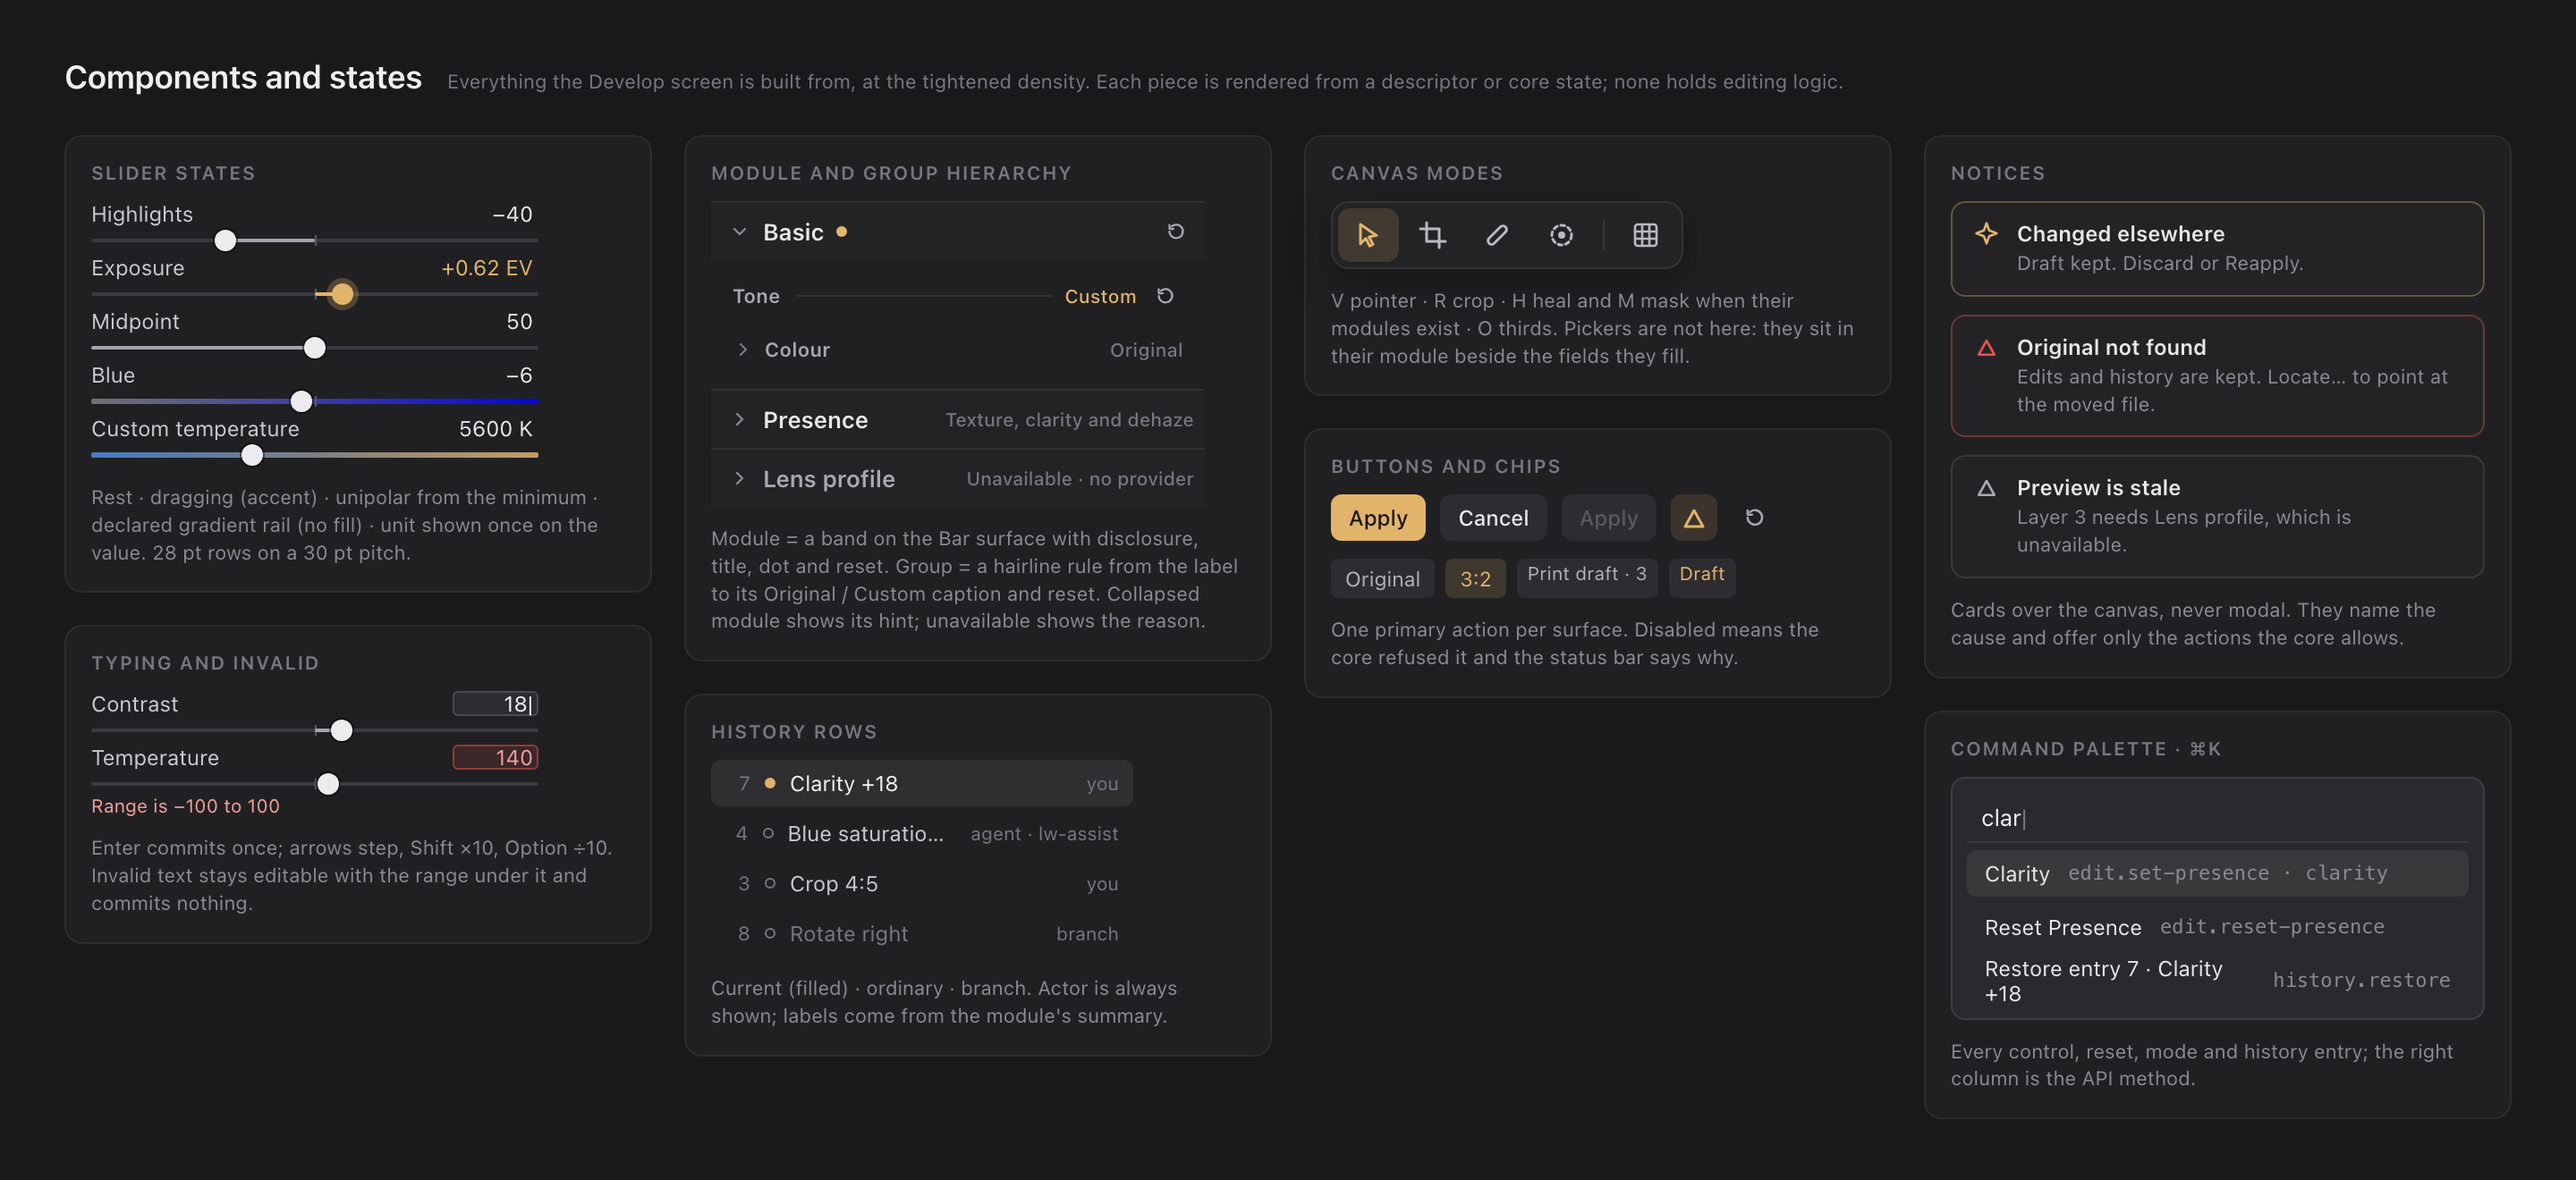
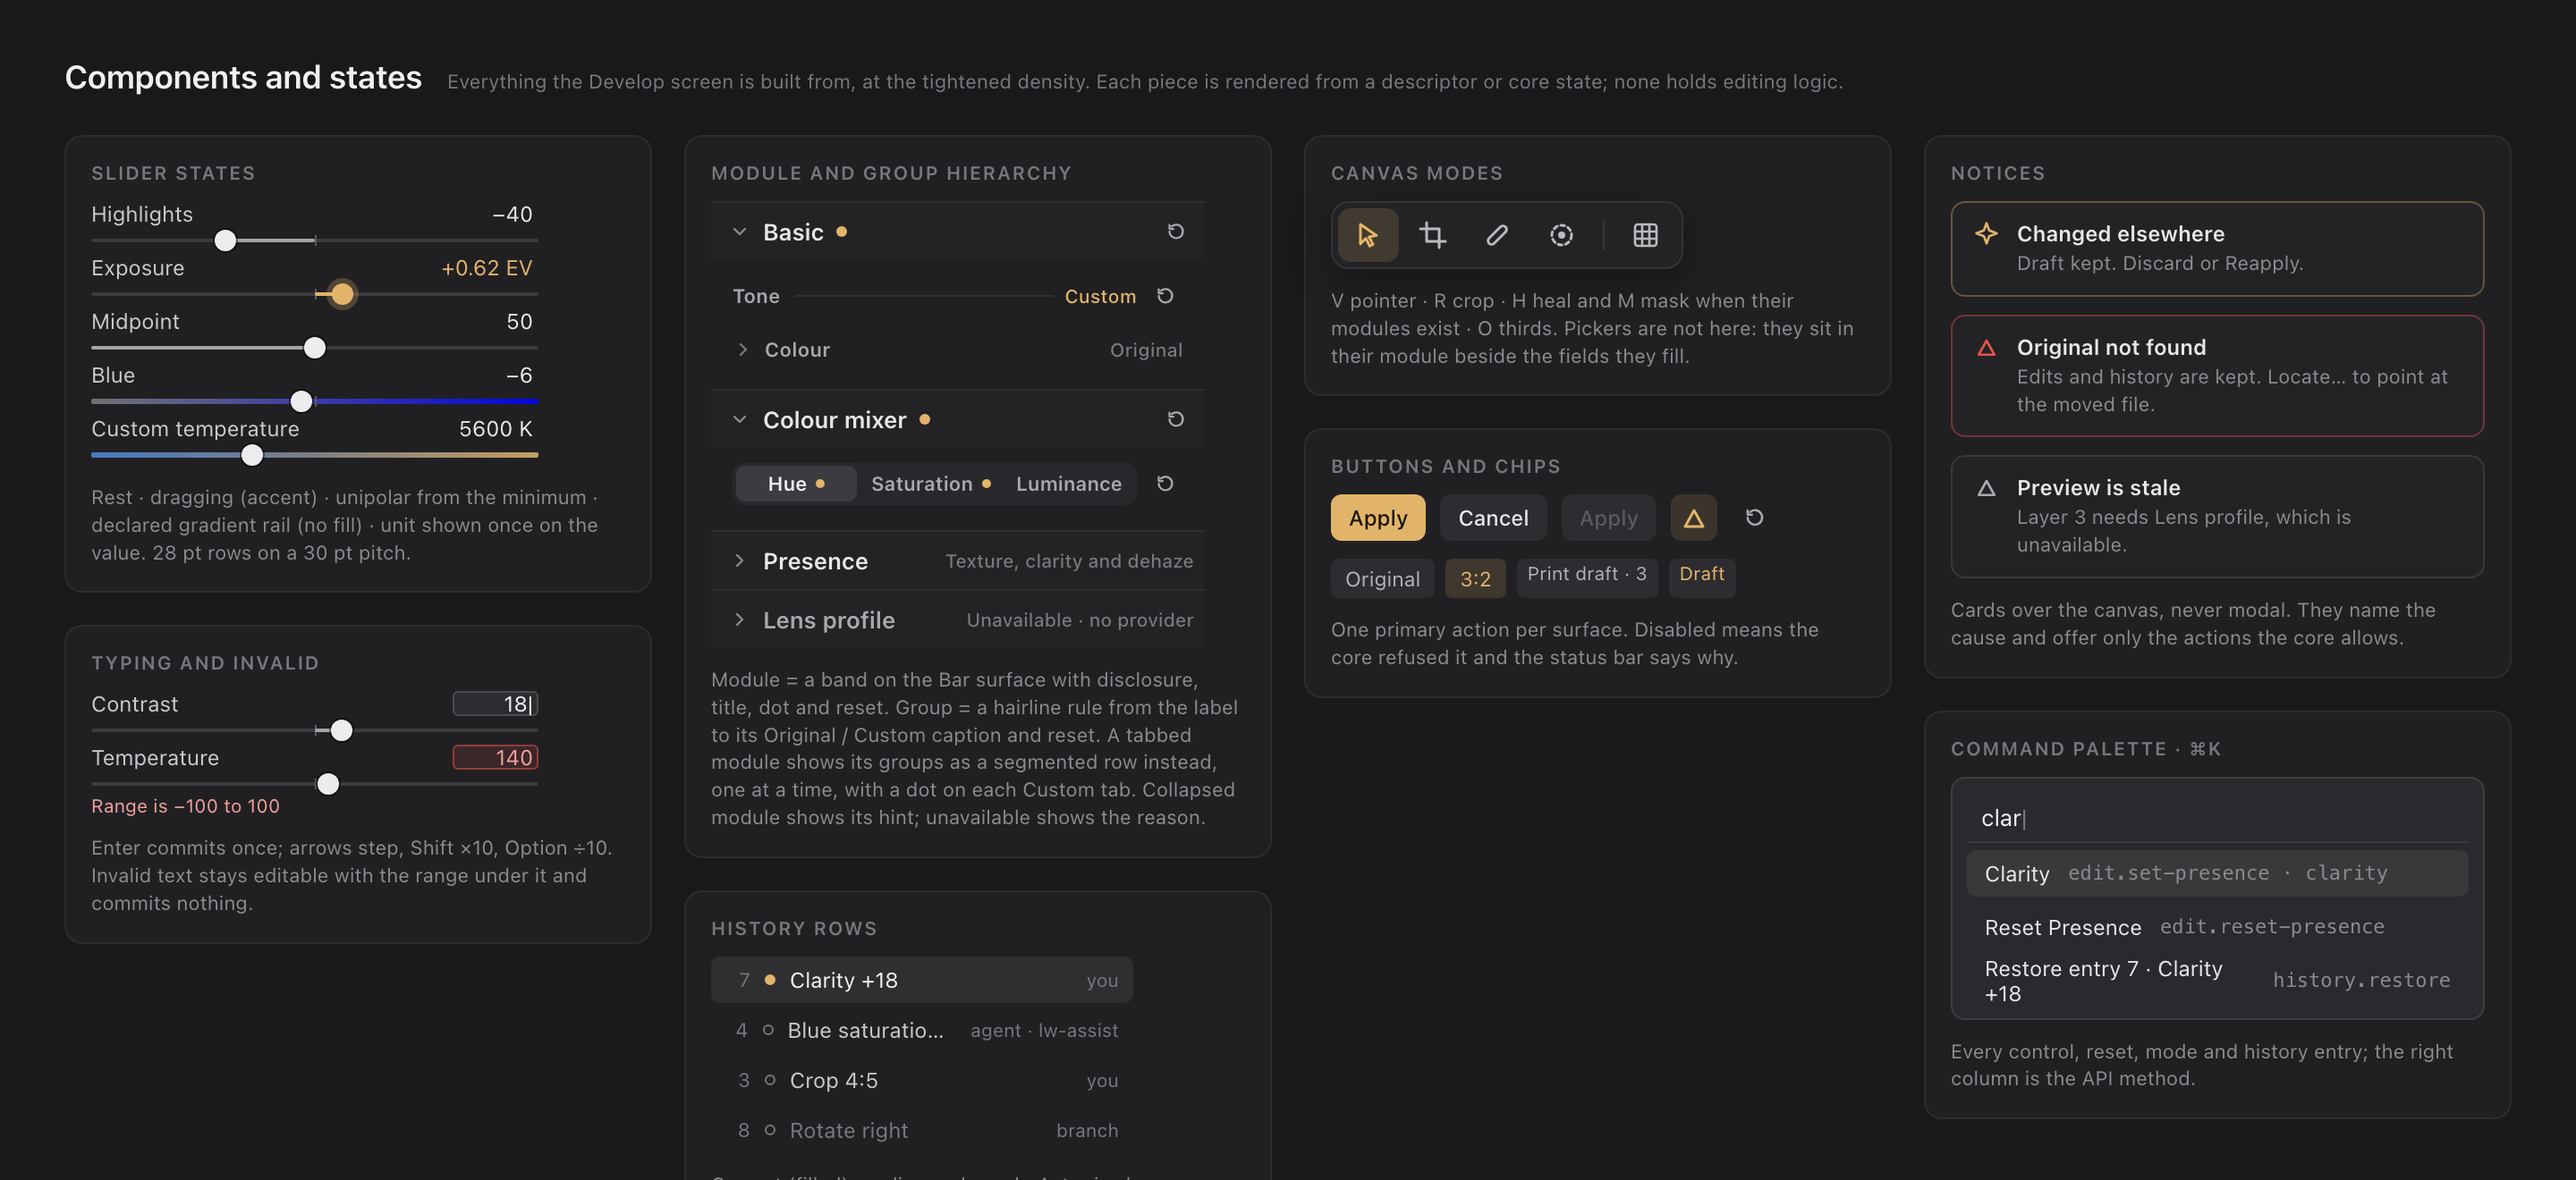
Show the colour mixer's groups as tabs
Propose a module-level layout hint (stacked or tabs) so a module whose
groups are parallel views of one control set renders them as a segmented
row, one group at a time, with a dot on every Custom tab and the visible
group's reset beside it. The mixer declares it, which brings its section
from 370 pt with one group open to 318 pt for any tab. Redraw the Module
panels and Components boards accordingly.

Changed region(s): [[0.2812, 0.3417, 0.4688, 0.7144], [0.2812, 0.7455, 0.4688, 0.9629]]

diff --git a/docs/design/develop-workspace.md b/docs/design/develop-workspace.md
@@ -9,7 +9,7 @@ Rendered at 1440 × 900 logical points, 2× scale, from the design artboards, re
 | Board | Shows |
 | --- | --- |
 | [Default](develop-workspace/default.png) | The workspace with Basic expanded and the five other sections collapsed under it, history and recipe on the left, mode strip under the photo |
-| [Module panels](develop-workspace/module-panels.png) | Every registered module expanded, exactly as its descriptor declares it, at the proposed density: the reference for each section's layout |
+| [Module panels](develop-workspace/module-panels.png) | Every registered module expanded, exactly as its descriptor declares it, at the proposed density, with the mixer's groups as tabs: the reference for each section's layout |
 | [Crop draft](develop-workspace/crop-draft.png) | Crop mode: dimmed overlay, thirds, handles, the draft bar and the Crop section held expanded with the exact values it would commit |
 | [Changed elsewhere](develop-workspace/changed-elsewhere.png) | An agent commits during a slider gesture: the conflict notice, actor-attributed history and a control's Copy as JSON request menu |
 | [Components](develop-workspace/components.png) | Slider states, the module and group hierarchy, history rows, canvas modes, notices and the command palette |
@@ -72,7 +72,7 @@ A build shows only the modules its registry contains. Sections for later modules
 
 ## Module panels
 
-Status: proposed on 2026-09-22, drawn in the [Module panels board](develop-workspace/module-panels.png); the built tools panel still uses the earlier spacing. This is the exact design of each section the tools panel generates, in registry order, from the descriptors `module.list` returns today. Nothing here changes a descriptor: the controls, ranges, steps, units, zero points, rails, groups and resets are the modules' own, and the desktop's job is to lay them out at one density with one hierarchy. Two things are proposals for the modules themselves and are marked as such: `temperature` and `tint` rail hints on the two white-balance sliders, which the [UI components](ui-components.md#parameter-kinds-and-hints) vocabulary already defines and no module declares yet.
+Status: proposed on 2026-09-22, drawn in the [Module panels board](develop-workspace/module-panels.png); the built tools panel still uses the earlier spacing. This is the exact design of each section the tools panel generates, in registry order, from the descriptors `module.list` returns today. Nothing here changes a descriptor: the controls, ranges, steps, units, zero points, rails, groups and resets are the modules' own, and the desktop's job is to lay them out at one density with one hierarchy. Three things are proposals for the descriptors themselves and are marked as such: `temperature` and `tint` rail hints on the two white-balance sliders, which the [UI components](ui-components.md#parameter-kinds-and-hints) vocabulary already defines and no module declares yet, and a module-level `layout: tabs` hint that the colour mixer would declare so its three groups render as tabs. A layout hint changes only what a client draws, never what the host accepts, which is the vocabulary's rule for every hint.
 
 ### Density
 
@@ -85,9 +85,10 @@ With Basic open, the earlier spacing left only three collapsed sections visible 
 | Module header | 32 pt | 36 pt | 13 pt semibold on the Bar surface, disclosure, title, dot, hint or reset |
 | Section body | 4 pt top, 12 pt sides, 10 pt bottom | 12 pt | Sliders are separated only by their 2 pt gap; groups by their header's 4 pt margin |
 | Button rows | 26 pt buttons, 4 pt above | 28 pt | Picker and action buttons inside a group are a row under its sliders |
+| Tab row | 24 pt segmented control, 4 pt above and below | — | Replaces the group headers of a module that declares `layout: tabs`; one tab per group, the selected group's reset at the row's right |
 | History and recipe rows | 26 pt | 28 pt | Same text sizes; the label truncates with an ellipsis before the actor does |
 
-Resulting section heights at 300 pt wide: Basic 458 pt, Presence 164, Colour mixer 370 with Hue open (850 with all three groups open), Transforms 102, Crop and straighten 76 idle, Vignette 194, RAW 194, any collapsed section 33. With Basic open the default screen shows the histogram, Basic and all five other headers with 60 pt to spare, which is the acceptance for the density: at 1440 × 900 no registered section's header scrolls off while Basic is open.
+Resulting section heights at 300 pt wide: Basic 458 pt, Presence 164, Colour mixer 318 whichever tab is selected, Transforms 102, Crop and straighten 76 idle, Vignette 194, RAW 194, any collapsed section 33. With Basic open the default screen shows the histogram, Basic and all five other headers with 60 pt to spare, which is the acceptance for the density: at 1440 × 900 no registered section's header scrolls off while Basic is open.
 
 ### Hierarchy
 
@@ -95,6 +96,7 @@ Three levels, each with one visual device, so a person can tell a module from a 
 
 - **Module = band.** The header row sits on the Bar surface (`#232326`) against the Panel body (`#202023`), with a 1 px border above. Expanded or collapsed, the band is the same height, so the panel does not jump. The band carries the disclosure, the title, the accent dot when the module has a non-neutral layer, and either the hint (collapsed) or the module reset (expanded). An unavailable module's band shows its reason in the clipping red and does not expand.
 - **Group = rule.** A sub-group header is 11 pt semibold secondary text followed by a hairline rule that runs to the caption. The rule is what separates groups from the sliders above them without a second background. The caption reads Original or Custom for a field-patch group, Custom in the accent, and the group's reset sits after it. A collapsed group keeps its header and drops the rule.
+- **Tabs = alternative groups.** A module whose groups are parallel views of one set of controls, such as the mixer's Hue, Saturation and Luminance over the same eight colours, declares `layout: tabs` and the desktop draws its groups as one segmented row instead of stacked headers: one group visible at a time, a dot on every tab whose group is Custom so a hidden group's edits stay visible, and the visible group's reset at the row's right. The selected tab is per-client view state, like a collapsed group; it changes no recipe, and every group's fields keep their API. Stacked groups remain the default and stay right for Basic, whose groups are different controls rather than views of the same ones.
 - **Control = row.** Sliders, fields and button rows sit flush inside the group with no indent; the group rule above and the module band around them are the only structure. A declared gradient rail replaces the fill on its slider, so a rail's colour is always the module's declared meaning and never a state.
 
 ### Sections
@@ -106,7 +108,7 @@ Order and content are the registry's. "Patch" means the group's sliders are fiel
 | **RAW** (`lightwell.raw`) | RAW sources only; omitted for a JPEG, not disabled | **RAW development** (single): Exposure −5.00..+5.00 EV step 0.01; Custom temperature 2000..12000 K step 10, default 6504, unipolar from the minimum, `temperature` rail proposed; Custom tint −100..+100, `tint` rail proposed | Group and module: `reset-raw` | Neutral WB picker (`N`, `pick-raw-neutral` at the located pixel) and As shot (`use-as-shot-wb`), as one button row under the sliders. Red and blue gain are API-only actions with no control | Action title · the development's values |
 | **Basic** (`lightwell.basic`) | Always; expanded by default | **White balance** (patch): Temperature −100..+100 with the `temperature` rail proposed, Tint −100..+100 with the `tint` rail proposed. **Tone** (patch): Exposure −5.00..+5.00 EV step 0.01, Contrast, Highlights, Shadows, Whites, Blacks −100..+100. **Colour** (patch): Vibrance, Saturation −100..+100. All bipolar from 0 | Each group its own preset reset; module `reset-basic` | Neutral picker (`W`, `sample-apply` through `neutral-sample`) as a button row under the White balance sliders; it reads selected while the mode is active | `Shadows +25` · `10 fields` or the non-neutral ones |
 | **Presence** (`lightwell.presence`) | Always; collapsed | **Presence** (patch): Texture, Clarity, Dehaze −100..+100, zero 0 | Group preset; module `reset-presence` | None. A Fit preview through the proxy is marked approximate in the status bar, as [instant preview](instant-preview.md) records | `Clarity +18` · `Clarity +18` |
-| **Colour mixer** (`lightwell.mixer`) | Always; collapsed | **Hue** (patch, open): eight sliders Red, Orange, Yellow, Green, Aqua, Blue, Purple, Magenta, −100..+100, each with its declared three-stop hue rail. **Saturation** (patch, collapsed): the same eight with grey-to-colour rails. **Luminance** (patch, collapsed): the same eight with dark-to-light rails | Each group its own preset reset; module `reset-mixer` | None | `Blue saturation −6` · `3 fields` |
+| **Colour mixer** (`lightwell.mixer`) | Always; collapsed | Three groups as **tabs** (`layout: tabs`, proposed), Hue selected by default: **Hue** (patch): eight sliders Red, Orange, Yellow, Green, Aqua, Blue, Purple, Magenta, −100..+100, each with its declared three-stop hue rail. **Saturation** (patch): the same eight with grey-to-colour rails. **Luminance** (patch): the same eight with dark-to-light rails. One group visible at a time; a dot on a tab whose group is Custom | The visible group's preset reset at the tab row's right; module `reset-mixer` | None | `Blue saturation −6` · `3 fields` |
 | **Transforms** (`lightwell.transform`) | Always; collapsed | **Exact transforms**: four `action` controls with presets, rendered as one row of four icon buttons (rotate left, rotate right, mirror, flip) with tooltips, since each is a single exact operation and the labels are their icons | None declared | None | `Rotate right` · `Rotate right` |
 | **Crop and straighten** (`lightwell.crop`) | Always; collapsed | Idle: one Crop button (`R`) that enters the takeover mode. Drafting: **Ratio** with the seven `aspect` chips, lock and swap, and the custom width and height fields; **Angle** with the −45..+45° stepper (±0.5 nudges), its rail and the Straighten guide toggle; the exact readout (input stage, rectangle, output, what Apply commits); Cancel and Apply | Module `crop-reset` from the header | The mode strip's Crop entry and the draft bar are the same draft | `Crop 4:5` or `Crop 2.4°` · `4:5 · 0.0°` |
 | **Vignette** (`lightwell.vignette`) | Always; collapsed | **Vignette** (patch): Amount −100..+100 zero 0; Midpoint 0..100 default 50, unipolar; Roundness −100..+100 zero 0; Feather 0..100 default 50, unipolar | Group preset; module `reset-vignette` | None | `Vignette amount −35` · `−35 · 50 · 0 · 50` |
@@ -116,7 +118,7 @@ Sections for modules that do not exist (Tone curve, Detail, Lens profile, Heal, 
 
 ### What the built screen changes
 
-The delivered generated panel already renders every control above; the proposal changes only the theme and the layout functions in `lightwell-ui` and `view/tools_panel`: the density constants (slider, group and module heights, body padding), the module band background, the group rule, the icon-button row for `action` controls whose descriptor names an icon, and the two rail hints on the white-balance sliders once Basic and RAW declare them. No view-model, core or API change is needed, and the smoke scenarios that check the panel by state need only their placement expectations updated.
+The delivered generated panel already renders every control above; the proposal changes only the theme and the layout functions in `lightwell-ui` and `view/tools_panel`: the density constants (slider, group and module heights, body padding), the module band background, the group rule, the tab row for a module that declares `layout: tabs`, the icon-button row for `action` controls whose descriptor names an icon, and the two rail hints on the white-balance sliders once Basic and RAW declare them. The core change is one optional descriptor field, `layout` (`stacked`, the default, or `tabs`), validated at registration, listed by `module.list` and declared by the mixer; the view model gains the selected tab per tabbed module. No API method changes, and the smoke scenarios that check the panel by state need only their placement expectations updated.
 
 ## Panels
 
